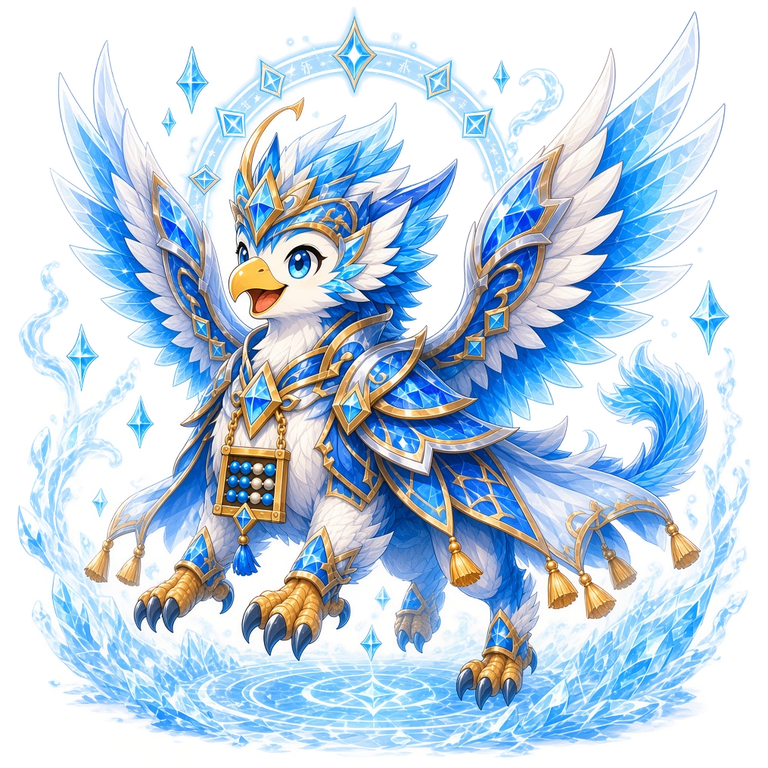
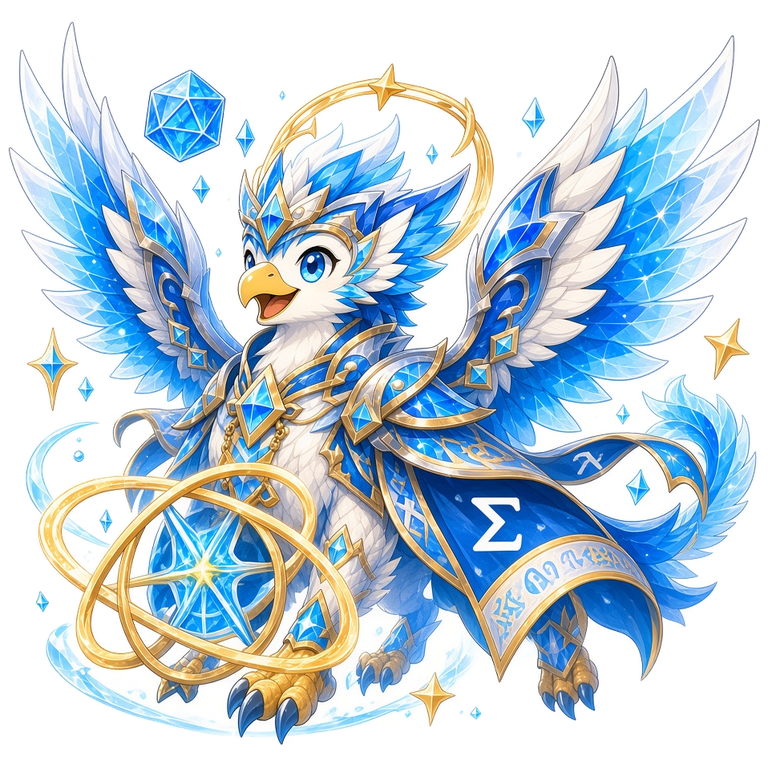
Give mega and special light pearl and champagne cards
Replace stage 5 and 6 art for nine subjects, and paint those ranks with soft pastel and ivory-gold fills so they match the earlier stages.

diff --git a/src/pages/ZukanPage.vue b/src/pages/ZukanPage.vue
@@ -123,43 +123,52 @@ button.album-card{font-family:var(--font);color:inherit;cursor:pointer}.album-ca
 .album-card.legendary.rank-found{background:linear-gradient(145deg,#ffffff12,#1e1b4bd1 55%,#0f172a) padding-box,linear-gradient(135deg,#e2e8f0,#94a3b8,#e2e8f0) border-box}.album-card.legendary.rank-friend{background:linear-gradient(145deg,#ffffff12,#1e1b4bd1 55%,#0f172a) padding-box,linear-gradient(135deg,#bae6fd,#38bdf8,#bae6fd) border-box;box-shadow:inset 0 0 0 2px #ffffff10,0 12px 22px #02061780,0 0 22px #38bdf852}.album-card.legendary.rank-super{background:linear-gradient(145deg,#ffffff12,#1e1b4bd1 55%,#0f172a) padding-box,linear-gradient(135deg,#ddd6fe,#a855f7,#ddd6fe) border-box;box-shadow:inset 0 0 0 2px #ffffff10,0 12px 22px #02061780,0 0 24px #a855f760}.album-card.legendary.rank-master{background:linear-gradient(145deg,#ffffff12,#1e1b4bd1 55%,#0f172a) padding-box,linear-gradient(135deg,#fef3c7,#facc15,#a855f7,#fef3c7) border-box;box-shadow:inset 0 0 0 2px #facc1524,0 12px 22px #02061780,0 0 28px #facc1560}
 .album-copy h2{min-height:1.45em;white-space:nowrap}.album-copy .undiscovered{display:block;font-size:.72rem;white-space:nowrap}.album-copy h2 :deep(.monster-name){font-size:.88rem}.companion .album-copy h2 :deep(.monster-name){font-size:.84rem}
 .evolution-card.rank-mega{
-  --rank-a:#fbcfe8;
-  --rank-b:#c4b5fd;
-  --rank-glow:#ddd6fe;
+  --rank-a:#f9c6e4;
+  --rank-b:#b7e7f2;
+  --rank-glow:#e7d6ff;
   background:
-    linear-gradient(165deg, #241838, #141228 62%, #10182c) padding-box,
-    linear-gradient(135deg, #fde68a, #f9a8d4, #c4b5fd, #7dd3fc, #a7f3d0, #fde68a) border-box;
-  box-shadow: inset 0 0 0 1px #ffffff33, 0 8px 16px #02061775, 0 0 14px #c4b5fd73;
+    linear-gradient(155deg, #fff4fa 0%, #f3e6ff 46%, #e5f6f6 100%) padding-box,
+    linear-gradient(135deg, #fde7b0, #f8c2de, #d9c2f5, #b7e7f2, #f7d0ea) border-box;
+  box-shadow: inset 0 0 0 1px #ffffffd0, 0 8px 14px #6b4c8a22, 0 0 12px #e4d0ff80;
   filter: none;
 }
 .evolution-card.rank-special{
-  --rank-a:#fffef8;
-  --rank-b:#f0d78a;
-  --rank-glow:#fde68a;
+  --rank-a:#fff6d4;
+  --rank-b:#e0b44a;
+  --rank-glow:#f3d98a;
   background:
-    linear-gradient(165deg, #2a2316, #171322 58%, #10182c) padding-box,
-    linear-gradient(135deg, #fffef6, #fde68a, #fff6d0, #f3e0a4, #fffef6) border-box;
-  box-shadow: inset 0 0 0 1px #fff1c266, 0 8px 16px #02061775, 0 0 12px #fde68aaa, 0 0 22px #fff4c44d;
+    linear-gradient(160deg, #fffdf6 0%, #fff1cc 54%, #f6e4b0 100%) padding-box,
+    linear-gradient(135deg, #fff3c4, #e8c547, #b8860b, #f0d56a) border-box;
+  box-shadow: inset 0 0 0 1px #e8c45a99, 0 8px 14px #8a5a1024, 0 0 12px #f0d060aa, 0 0 20px #fff1c066;
   filter: none;
 }
 .evolution-card.rank-mega strong,
-.evolution-card.rank-special strong{
-  position: relative;
-  z-index: 3;
-  color: #fff;
-  text-shadow: 0 1px 2px #020617;
-}
+.evolution-card.rank-special strong,
 .evolution-card.rank-mega small,
 .evolution-card.rank-special small{
   position: relative;
   z-index: 3;
-  color: #fde68a;
-  text-shadow: 0 1px 2px #020617;
+}
+.evolution-card.rank-mega strong{
+  color: #4a3568;
+  text-shadow: 0 1px 0 #ffffffd6;
+}
+.evolution-card.rank-mega small{
+  color: #4a3568;
+  text-shadow: 0 1px 0 #ffffffd6;
+}
+.evolution-card.rank-special strong{
+  color: #6b4a12;
+  text-shadow: 0 1px 0 #fff8e0;
+}
+.evolution-card.rank-special small{
+  color: #6b4a12;
+  text-shadow: 0 1px 0 #fff8e0;
 }
 .evolution-card.rank-mega:not(.locked) .evolution-art :deep(img),
 .evolution-card.rank-special:not(.locked) .evolution-art :deep(img){
   opacity: 1;
-  filter: drop-shadow(0 6px 8px #020617c0) !important;
+  filter: drop-shadow(0 6px 8px #6b534033) !important;
 }
 .evolution-card.rank-mega.locked,
 .evolution-card.rank-special.locked{

diff --git a/src/components/LegendarySubjectCard.vue b/src/components/LegendarySubjectCard.vue
@@ -39,36 +39,47 @@ useCardTilt(rootEl)
 .card-top{margin-bottom:12px}.card-copy{margin-top:12px}.legend-card.compact{padding:18px}.legend-card.compact .card-top{margin-bottom:14px}.legend-card.compact .card-copy{margin-top:14px}
 .legend-card{cursor:default}button.legend-card{cursor:pointer}
 .legend-card.rank-mega{
-  --frame-a:#fbcfe8;
-  --frame-b:#a5f3fc;
-  --frame-glow:#e9d5ff99;
+  --frame-a:#f9c6e4;
+  --frame-b:#b7e7f2;
+  --frame-glow:#eadbff88;
   background:
-    linear-gradient(155deg,#241447,#17133f 46%,#0f172a) padding-box,
-    linear-gradient(120deg,#fde68a,#f9a8d4,#c4b5fd,#7dd3fc,#99f6e4,#fde68a) border-box;
-  box-shadow:
-    inset 0 0 0 3px #ffffff24,
-    inset 0 0 28px #ddd6fe33,
-    0 16px 28px #02061782,
-    0 0 36px #c4b5fd55;
+    linear-gradient(155deg,#fff5fb 0%,#f3e8ff 42%,#e6f7f6 100%) padding-box,
+    linear-gradient(120deg,#fde7b0,#f8c2de,#d9c2f5,#b7e7f2,#f7d0ea,#fde7b0) border-box;
+  box-shadow:inset 0 0 0 1px #ffffffcc,0 16px 28px #6b4c8a24,0 0 22px #e4d0ff73;
 }
 .legend-card.rank-mega::before{
-  border-color:#f5d0fe;
-  box-shadow:inset 0 0 18px #e9d5ff55,0 0 12px #bae6fd33;
+  border-color:#e7d0f5;
+  box-shadow:none;
+}
+.legend-card.rank-mega .card-copy{
+  background:#2c2348e8;
+  border-color:#ffffff33;
+}
+.legend-card.rank-mega .art-stage :deep(img){
+  opacity:1;
+  filter:drop-shadow(0 10px 10px #6b534044)!important;
 }
 .legend-card.rank-special{
-  --frame-a:#fffef8;
-  --frame-b:#f0d78a;
-  --frame-glow:#fff4c888;
+  --frame-a:#fff1c2;
+  --frame-b:#c9972a;
+  --frame-glow:#f3d98a88;
   background:
-    linear-gradient(155deg,#2a2416,#17132a 48%,#0f172a) padding-box,
-    linear-gradient(135deg,#fffef6,#fde68a,#fff6d0,#f3e0a4,#fffef6) border-box;
-  box-shadow:
-    inset 0 0 0 1px #fff1c255,
-    0 18px 30px #02061788,
-    0 0 28px #fde68a88;
+    linear-gradient(160deg,#fffdf6 0%,#fff1cc 50%,#f6e4b0 100%) padding-box,
+    linear-gradient(135deg,#fff3c4,#e8c547,#b8860b,#f0d56a,#fff6d0) border-box;
+  box-shadow:inset 0 0 0 1px #e8c45aaa,0 16px 28px #8a5a1024,0 0 22px #f0d06099;
 }
 .legend-card.rank-special::before{
-  border-color:#fff4c8;
-  box-shadow:inset 0 0 0 1px #fff7d655,0 0 12px #fde68a44;
+  border-color:#e6c15a;
+  box-shadow:0 0 10px #f0d06055;
 }
+.legend-card.rank-special .card-copy{
+  background:#4a3516e8;
+  border-color:#fff1c244;
+}
+.legend-card.rank-special .art-stage :deep(img){
+  opacity:1;
+  filter:drop-shadow(0 10px 10px #6b534044)!important;
+}
+.legend-card.rank-mega .card-copy p,
+.legend-card.rank-special .card-copy p{color:#f8f1e4}
 </style>

diff --git a/src/styles/plan-a.css b/src/styles/plan-a.css
@@ -75,12 +75,12 @@
   filter: saturate(1.15);
 }
 .legend-card.rank-mega .art-stage.plan-a-aura::before {
-  background: radial-gradient(circle, #fbcfe8bb 0%, #ddd6fe66 28%, #bae6fd55 46%, #a7f3d044 62%, transparent 76%);
+  background: radial-gradient(circle, #f8d0ea55 0%, #e4d4ff33 34%, transparent 70%);
   animation: plan-a-aura 2.6s ease-in-out infinite;
   opacity: 1;
 }
 .legend-card.rank-special .art-stage.plan-a-aura::before {
-  background: radial-gradient(circle, #fffef6ee 0%, #fde68a99 26%, #fff4cc66 48%, transparent 74%);
+  background: radial-gradient(circle, #fff3c455 0%, #f3d98a33 34%, transparent 70%);
   animation: plan-a-aura 2.2s ease-in-out infinite;
   opacity: 1;
 }
@@ -139,7 +139,7 @@
   content: '';
   position: absolute;
   inset: -100% -60%;
-  background: radial-gradient(circle at 50% 46%, #ffffff55 0%, #fde68a33 16%, transparent 42%);
+  background: radial-gradient(circle at 50% 46%, #ffffff22 0%, #f3d98a28 18%, transparent 46%);
   animation: plan-a-special-glow 3.4s ease-in-out infinite;
   pointer-events: none;
 }
@@ -168,12 +168,12 @@
 .legend-card.rank-master .particles.plan-a-ambient i:nth-child(3n) { color: #fef08a; }
 .legend-card.rank-master .particles.plan-a-ambient i:nth-child(3n+1) { color: #fdba74; }
 .legend-card.rank-master .particles.plan-a-ambient i:nth-child(3n+2) { color: #e9d5ff; }
-.legend-card.rank-mega .particles.plan-a-ambient i:nth-child(4n) { color: #fbcfe8; }
-.legend-card.rank-mega .particles.plan-a-ambient i:nth-child(4n+1) { color: #ddd6fe; }
-.legend-card.rank-mega .particles.plan-a-ambient i:nth-child(4n+2) { color: #bae6fd; }
-.legend-card.rank-mega .particles.plan-a-ambient i:nth-child(4n+3) { color: #fde68a; }
-.legend-card.rank-special .particles.plan-a-ambient i:nth-child(odd) { color: #fff7d6; }
-.legend-card.rank-special .particles.plan-a-ambient i:nth-child(even) { color: #fde68a; }
+.legend-card.rank-mega .particles.plan-a-ambient i:nth-child(4n) { color: #d48ab8; }
+.legend-card.rank-mega .particles.plan-a-ambient i:nth-child(4n+1) { color: #b49adf; }
+.legend-card.rank-mega .particles.plan-a-ambient i:nth-child(4n+2) { color: #7eb8c9; }
+.legend-card.rank-mega .particles.plan-a-ambient i:nth-child(4n+3) { color: #d4b15a; }
+.legend-card.rank-special .particles.plan-a-ambient i:nth-child(odd) { color: #c9972a; }
+.legend-card.rank-special .particles.plan-a-ambient i:nth-child(even) { color: #e0b44a; }
 @keyframes plan-a-sparkle {
   0%, 100% { opacity: 0; transform: translateY(10px) scale(.35) rotate(0deg); }
   18% { opacity: .95; }
